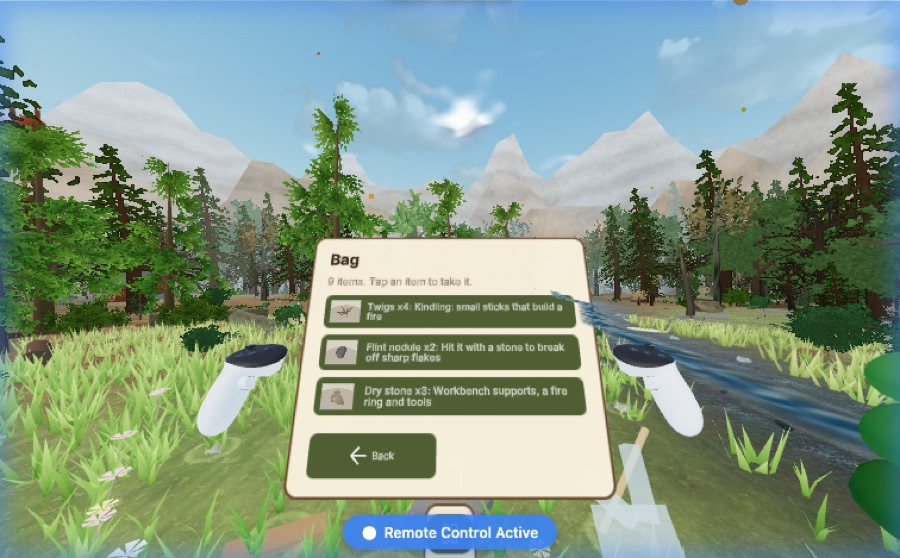
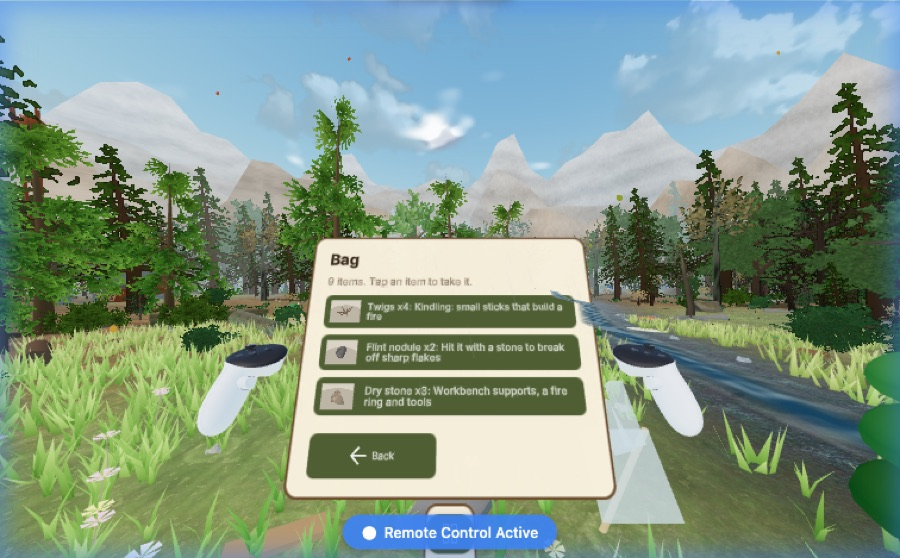
UI 7: parchment guide/level/tip/tutorial/welcome cards, wheel and pinch-drag paging in bag and build book, menu misclick guard and confirm for Exit/Reload; fresh shots

diff --git a/src/systems/shared.ts b/src/systems/shared.ts
@@ -245,6 +245,71 @@ export const cards: Record<string, Object3D> = {};
 /** What the ghost hand should demonstrate right now (null = nothing), and next to which card. Set by the teaching cards. */
 export const ghost: { clip: string | null; card: string | null; how: string | null } = { clip: null, card: null, how: null };
 
+/**
+ * Scroll a paged list: the mouse wheel (flat view) or a pinch-drag up/down anywhere on the card body (VR; the header strip
+ * stays the move handle). Calls `step(+1)` for "later" (drag up / wheel down) and `step(-1)` for "earlier".
+ */
+export class SwipePager {
+  private hand = -1;
+  private startY = 0;
+  private local = new Vector3();
+  constructor(
+    private step: (d: number) => void,
+    private widthUnits: number,
+    private heightUnits: number,
+    private headerUnits = 90,
+  ) {}
+
+  /** Mouse wheel; call once from init and register the returned remover in cleanupFuncs. */
+  listenWheel(isOpen: () => boolean): () => void {
+    let acc = 0;
+    const on = (e: WheelEvent): void => {
+      if (!isOpen()) return;
+      acc += e.deltaY;
+      if (Math.abs(acc) >= 60) {
+        this.step(acc > 0 ? 1 : -1);
+        acc = 0;
+      }
+    };
+    window.addEventListener('wheel', on, { passive: true });
+    return () => window.removeEventListener('wheel', on);
+  }
+
+  /** VR pinch-drag; call every frame while the card is open. */
+  update(panel: Object3D): void {
+    const frames = handSource.frames;
+    if (!frames) return;
+    if (this.hand < 0) {
+      for (let h = 0; h < frames.length; h++) {
+        const f = frames[h];
+        if (!f.tracked || !f.gripDown) continue;
+        panel.updateWorldMatrix(true, false);
+        this.local.copy(f.pinchPos);
+        panel.worldToLocal(this.local);
+        const sy = panel.scale.y || 1;
+        const hw = this.widthUnits * 0.005;
+        const hh = this.heightUnits * 0.005;
+        if (Math.abs(this.local.x) <= hw && Math.abs(this.local.z) <= 0.06 / sy && this.local.y <= hh - this.headerUnits * 0.01 && this.local.y >= -hh) {
+          this.hand = h;
+          this.startY = f.pinchPos.y;
+          break;
+        }
+      }
+      return;
+    }
+    const f = frames[this.hand];
+    if (!f.tracked || !f.grip || f.gripUp) {
+      this.hand = -1;
+      return;
+    }
+    const dy = f.pinchPos.y - this.startY;
+    if (Math.abs(dy) > 0.05) {
+      this.step(dy < 0 ? 1 : -1); // dragging the card up shows later rows, like a phone
+      this.startY = f.pinchPos.y;
+    }
+  }
+}
+
 export class StaticAnchor {
   private placedYaw = 0;
   private placedX = 0;

diff --git a/src/systems/satchel-system.ts b/src/systems/satchel-system.ts
@@ -29,7 +29,7 @@ import { lambert } from '../scene-assets/materials.js';
 import { PanelTouch } from './panel-touch.js';
 import { itemPicture, RowThumbs } from './row-thumbs.js';
 import { PopIn } from './ui-fx.js';
-import { getGame, getUi, hidePanel, hipPosition, menu, PANEL_DISTANCE, PANEL_DOWN, placeInFront, StaticAnchor, uiText } from './shared.js';
+import { getGame, getUi, hidePanel, hipPosition, menu, PANEL_DISTANCE, PANEL_DOWN, placeInFront, StaticAnchor, SwipePager, uiText } from './shared.js';
 
 const SLOTS = 18;
 /** Rows of the bag list shown at once; "More" turns the page so the card stays short. */
@@ -53,6 +53,11 @@ export class SatchelSystem extends createSystem({
   private makeItems: Array<{ id: string; label: string; kind: 'bind' | 'pack' | 'store' | 'take' } | undefined> = [];
   private slotItems: Array<ItemId | null> = [];
   private page = 0;
+  private swipe = new SwipePager((d) => {
+    const n = Math.max(1, Math.ceil(getGame(this.world).satchelContents().length / PAGE_ROWS));
+    this.page = (this.page + d + n) % n;
+    this.refresh();
+  }, 480, 600);
   private hip = new Vector3();
   private craftTimer = 0;
   private bag!: Group;
@@ -175,6 +180,7 @@ export class SatchelSystem extends createSystem({
       game.stow();
     });
     wire('satchel-close', () => menu.back());
+    this.cleanupFuncs.push(this.swipe.listenWheel(() => this.open));
     wire('bag-more', () => {
       this.page++;
       this.refresh();
@@ -335,7 +341,10 @@ export class SatchelSystem extends createSystem({
   private anchor = new StaticAnchor(PANEL_DISTANCE, 0, PANEL_DOWN + 0.02, 0.9, 1).movable('bag', 480, 600);
 
   update(delta: number): void {
-    if (this.vr && this.panel?.visible) this.anchor.update(this.panel, this.camera);
+    if (this.vr && this.panel?.visible) {
+      this.anchor.update(this.panel, this.camera);
+      if (!this.anchor.dragging) this.swipe.update(this.panel);
+    }
     if (this.open && this.bagT < 1) {
       this.bagT = Math.min(1, this.bagT + delta / 0.45);
       const t = 1 - (1 - this.bagT) * (1 - this.bagT);

diff --git a/src/systems/icon-bar-system.ts b/src/systems/icon-bar-system.ts
@@ -200,8 +200,28 @@ export class IconBarSystem extends createSystem({}) {
     location.reload();
   }
   /** A fingertip tap on slot `i`: run it, then fold the grid unless it opened a panel or is a repeatable turn. */
+  private lastTapAt = -1e9;
+  private lastGridOpen = false;
+  private gridOpenedAt = -1e9;
+  private armedId = '';
+  private armedAt = -1e9;
   private activate(i: number): void {
     const def = DEFS[i];
+    // Misclick guard: a tap right after another tap, or right after the grid unfolded, is a stray touch, not a choice.
+    const now = performance.now();
+    if (now - this.lastTapAt < 300) return;
+    if (def.id !== 'menu' && now - this.gridOpenedAt < 350) return;
+    this.lastTapAt = now;
+    // Leaving the game needs a deliberate second tap on the same icon.
+    if (this.vr && (def.id === 'exit' || def.id === 'reload')) {
+      if (this.armedId !== def.id || now - this.armedAt > RESTART_CONFIRM_MS) {
+        this.armedId = def.id;
+        this.armedAt = now;
+        getGame(this.world).toast(`Tap ${def.id === 'exit' ? 'Exit' : 'Reload'} again to confirm.`, 'note');
+        return;
+      }
+      this.armedId = '';
+    }
     // A quick shrink on the tapped icon (PanelTouch adds the flash and the sound).
     this.btns[i].setProperties({ width: 38, height: 38 } as never);
     this.shrunk.push({ i, left: 0.12 });
@@ -263,6 +283,10 @@ export class IconBarSystem extends createSystem({}) {
       this.benchNear = !!game.nearbyWorkbench();
     }
     this.visible.length = 0;
+    if (menu.gridOpen !== this.lastGridOpen) {
+      this.lastGridOpen = menu.gridOpen;
+      if (menu.gridOpen) this.gridOpenedAt = performance.now();
+    }
     if (menu.gridOpen && (this.menuIdle += delta) > MENU_CONFIG.gridIdleSeconds) menu.gridOpen = false;
     // Folded (VR): only the Menu button shows, whenever the grid is not unfolded (and always while a panel is open).
     DEFS.forEach((d, i) => d.show(this) && (!this.vr || menu.gridVisible || d.id === 'menu') && this.visible.push(i));

diff --git a/src/systems/build-book-system.ts b/src/systems/build-book-system.ts
@@ -10,7 +10,7 @@ import { PanelTouch } from './panel-touch.js';
 import { structureView } from '../game/hint-info.js';
 import { RowThumbs } from './row-thumbs.js';
 import { PopIn } from './ui-fx.js';
-import { getGame, getUi, hidePanel, menu, PANEL_DISTANCE, PANEL_DOWN, placeInFront, StaticAnchor, uiText } from './shared.js';
+import { getGame, getUi, hidePanel, menu, PANEL_DISTANCE, PANEL_DOWN, placeInFront, StaticAnchor, SwipePager, uiText } from './shared.js';
 
 /** Entries per page: keeps every row a full-size fingertip target and the card on screen. */
 const ROWS = 8;
@@ -31,6 +31,10 @@ export class BuildBookSystem extends createSystem({}) {
   private dir = new Vector3();
   private timer = 0;
   private page = 0;
+  private swipe = new SwipePager((d) => {
+    this.page += d;
+    this.refresh();
+  }, 520, 500);
 
   async init(): Promise<void> {
     const game = getGame(this.world);
@@ -57,6 +61,7 @@ export class BuildBookSystem extends createSystem({}) {
       this.touch.add(`entry-${i}`, onClick);
       this.cleanupFuncs.push(() => el.removeEventListener('click', onClick));
     }
+    this.cleanupFuncs.push(this.swipe.listenWheel(() => !!this.panel?.visible));
     const close = this.panel.requireElementById('book-close');
     const onClose = () => menu.back();
     close.addEventListener('click', onClose);
@@ -158,7 +163,10 @@ export class BuildBookSystem extends createSystem({}) {
       if (this.open) this.refresh();
     }
     if (this.pop.busy) this.pop.update(delta);
-    if (this.open && this.immersive()) this.touch.update(delta);
+    if (this.open && this.immersive()) {
+      this.touch.update(delta);
+      if (!this.anchor.dragging) this.swipe.update(this.panel);
+    }
     if (this.open && (this.thumbTimer += delta) > 0.25) {
       this.thumbTimer = 0;
       this.thumbs.update();
